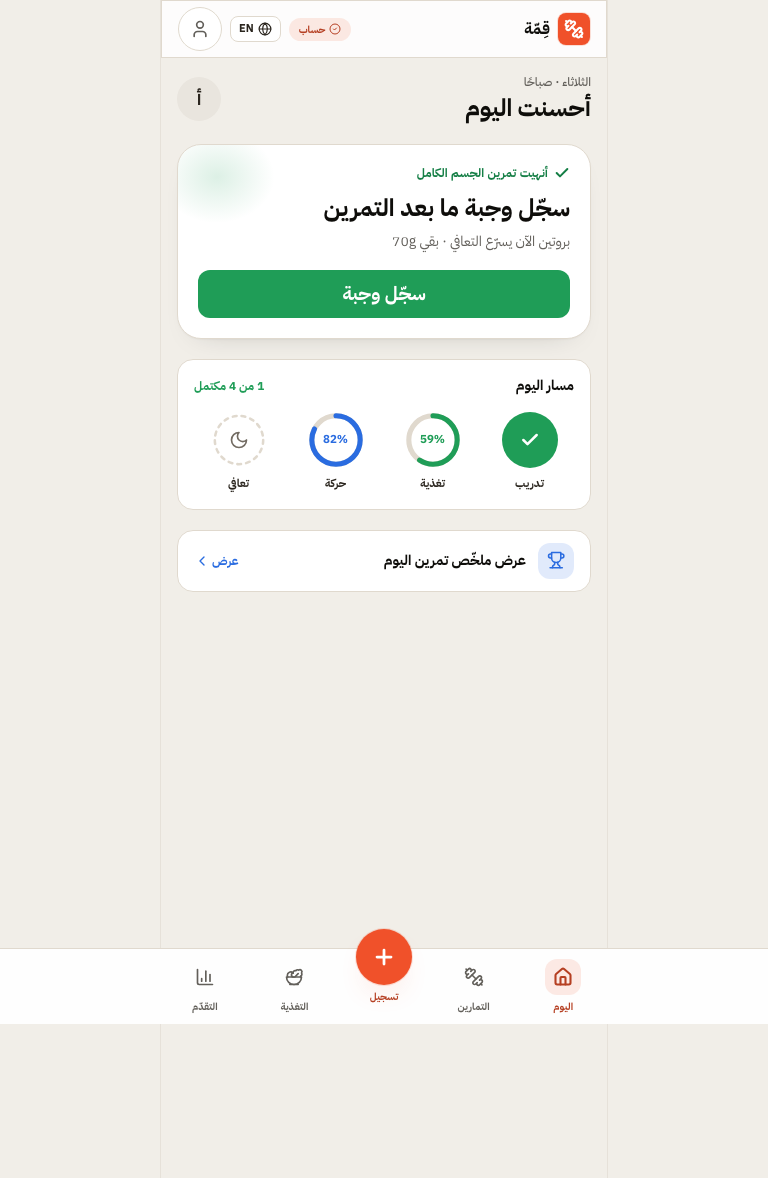
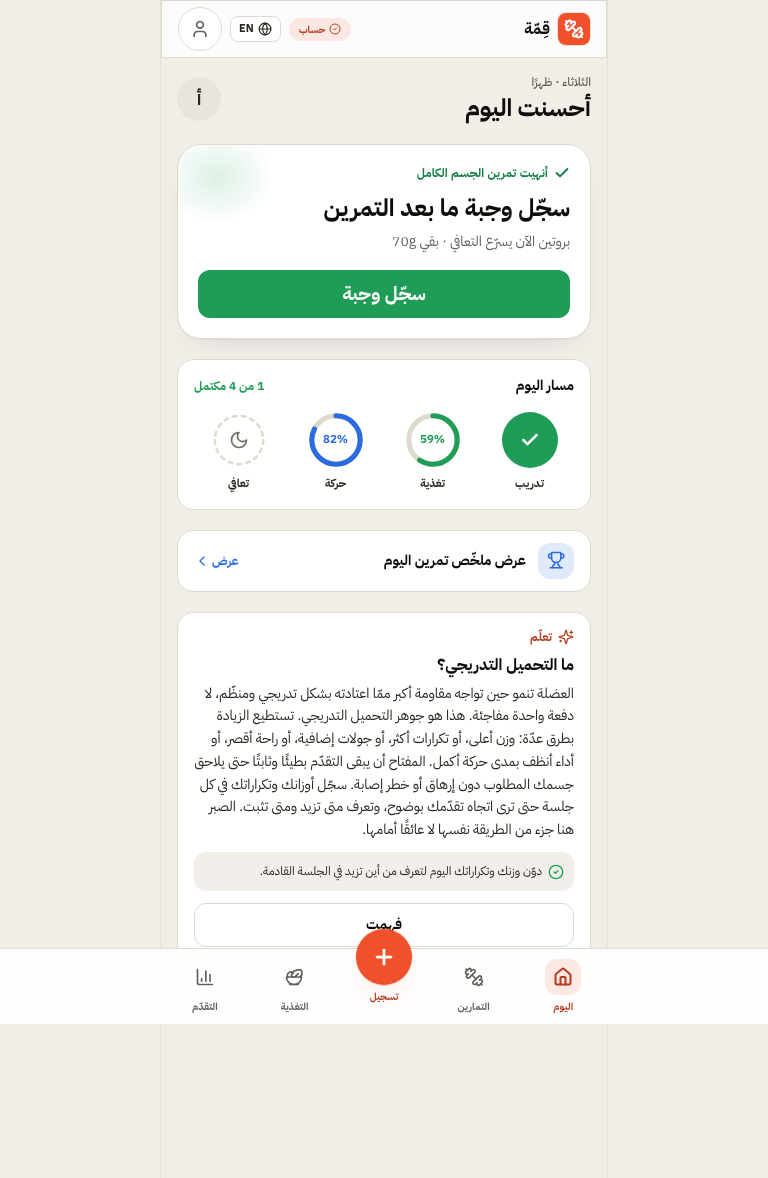
docs(wave5): record integrated trunk and missing-system blockers

diff --git a/docs/release/WAVE5-REVIEWS.md b/docs/release/WAVE5-REVIEWS.md
@@ -11,7 +11,7 @@
 | `site/landing` | `8b063ea` | ACCEPT WITH FIX | Static local-resource site + CSP. Replaced placeholders/colloquial support copy with the approved AR/EN FAQ and `support@qimmah.app`. |
 | `perf/bundle-optimization` | `b84783f` | ACCEPT | No storage/package/copy drift. Build proves Nutrition `633.21→182.06 kB` raw and ZXing isolated to an on-demand chunk. |
 | `assets/screenshots-site` | `cd8ea7c` | ACCEPT WITH CONFLICT GUARD | Unique work is six 1260×2736 captures + Playwright factory; retained Wave 4 legal/12+ decisions and removed the stale duplicate shot plan. |
-| `test/proof-deepening` | — | NOT PRESENT | Missing from origin at the initial and post-Phase-1 fetches. |
+| `test/proof-deepening` | — | BLOCKED — NOT PRESENT | Missing from origin after five post-Phase-1 fetch loops; no code or proof was available to review. |
 | `integration/wave4` diagnostic | `d2b6bd5` | ACCEPT / ABSOLUTE PRIORITY | `vite.config.ts` only; build-time `data-design="v2"` injection. Preserved Cloudflare build label and manual chunks. |
 
 Security review result for the integrated set: **No high-confidence vulnerabilities identified.** No auth/sync logic changed by these branches; Wave 4 owner/recovery/wipe proofs remain green.
@@ -20,11 +20,11 @@ Security review result for the integrated set: **No high-confidence vulnerabilit
 
 | System branch | Tip | Verdict | Blocking findings / wiring |
 |---|---|---|---|
-| `feat/notifications-engine` | pending | WAITING | Local worktree exists; no new commit on origin yet. |
-| `feat/insights-engine` | pending | WAITING | Not present on origin. |
-| `feat/plates-and-prs` | pending | WAITING | Not present on origin. |
-| `feat/data-portability` | pending | WAITING | Not present on origin. |
-| `feat/arabic-coach-content` | `871d20c` | ACCEPT CODE / REJECT PACKAGE DIFF | 181 cues + 40 lessons + 25 rest tips; 25 proof checks and owner-scoped lesson key. Commander wired `test:coaching` into `test:gate` and hid Arabic-only rest copy in EN mode. |
+| `feat/notifications-engine` | — | BLOCKED — NOT PRESENT | A local uncommitted worktree exists, but no origin tip/proof exists. Preliminary security court finding: native schedules must be cancelled on sign-out/account switch, not only full reset. |
+| `feat/insights-engine` | — | BLOCKED — NOT PRESENT | A local uncommitted worktree exists, but no origin tip/proof exists. Preliminary standards finding: remove raw-hex fallbacks from the v2 insight card before acceptance. |
+| `feat/plates-and-prs` | — | BLOCKED — NOT PRESENT | A local uncommitted worktree exists, but no origin tip/proof exists. |
+| `feat/data-portability` | — | BLOCKED — NOT PRESENT | The local worktree remains at the Wave 4 base with no system diff and no origin branch. |
+| `feat/arabic-coach-content` | `871d20c` | ACCEPT CODE / REJECT PACKAGE DIFF | 181 cues + 40 lessons + 25 rest tips; 25 proof checks and owner-scoped lesson key. Commander wired `test:coaching` into `test:gate`, hid Arabic-only rest copy in EN mode, and replaced raw component colors with semantic success/danger tokens. |
 
 ## Gate ledger
 
@@ -39,3 +39,8 @@ Every completed merge ran: `typecheck` → `lint --max-warnings 0` → productio
 | App Store screenshot assets | PASS |
 | Wave 4 v2 promotion reconciliation | PASS — built HTML contains `data-design="v2"`; 24 RTL surface screenshots, zero console errors/overflow |
 | Arabic coaching content | PASS after one fix loop — TypeScript narrowing corrected; 25 coaching checks + full gate green |
+| Coaching semantic-color follow-up | PASS — typecheck, lint 0, v2 build, every `test:gate` suite, onboarding E2E 11/11, Capacitor iOS sync |
+
+## Blocker record
+
+Five bounded fetch/review loops completed after the open-loop consolidation. The four unmerged system branches and `test/proof-deepening` never appeared on `origin`; therefore no immutable diff, proof, or tip existed to review or merge. Per the hard-cap rule, these are release blockers rather than green systems.

diff --git a/docs/release/WAVE5-NOTES.md b/docs/release/WAVE5-NOTES.md
@@ -1,0 +1,29 @@
+# Wave 5 — Integration Notes
+
+Status: **partial trunk, blocked on four missing system branches and one missing proof branch.** Nothing below labels absent work green.
+
+## Integration status
+
+| System / branch | Status | What the owner sees in the next build |
+|---|---|---|
+| `content/food-db-quality @ 5b56a04` | Integrated + gated | 581 validated foods, including the Saudi/GCC catalog additions. |
+| `docs/runbooks @ 515e80c` | Integrated + gated | Cloudflare-only deployment/support runbooks with corrected sync wording. |
+| `site/landing @ 8b063ea` | Integrated + gated | Landing/support pages, CSP, bilingual FAQ, and real support address. |
+| `perf/bundle-optimization @ b84783f` | Integrated + gated | Faster Nutrition entry; barcode scanner loads only when requested. |
+| `assets/screenshots-site @ cd8ea7c` | Integrated + gated | Six 1260×2736 App Store captures and reproducible screenshot factory. |
+| `integration/wave4 @ d2b6bd5` | Reconciled + gated | v2 is baked into the production build when `VITE_DESIGN_V2=true`. |
+| `feat/arabic-coach-content @ 871d20c` | Integrated + gated | Arabic exercise cues, 40 lessons, and contextual rest tips. |
+| `feat/notifications-engine` | Blocked: no origin tip | No notification system claimed or exposed by this integration. |
+| `feat/insights-engine` | Blocked: no origin tip | No insights system claimed or exposed by this integration. |
+| `feat/plates-and-prs` | Blocked: no origin tip | No plates/PR system claimed or exposed by this integration. |
+| `feat/data-portability` | Blocked: no origin tip | No export/import system claimed or exposed by this integration. |
+| `test/proof-deepening` | Blocked: branch absent | Existing proofs remain green; no extra proof suite claimed. |
+
+## Release blockers / tracked debt
+
+1. Push immutable, proof-bearing tips for the four missing systems, then run the standards/security court and full per-merge gate for each.
+2. Notifications must cancel the prior owner's native schedules on sign-out and account switch before acceptance.
+3. Insights must remove raw-hex fallbacks from its v2 card before acceptance.
+4. Replace legal `[OWNER-EMAIL]`/jurisdiction placeholders and obtain legal sign-off before public release.
+5. Run credentialed auth E2E, production Supabase/RLS verification, universal-link, and physical-device checks with owner-held credentials/device.
+6. Catalog proof reports 20 extension/content-type mismatches; runtime display is healthy, but asset normalization remains cleanup debt.
